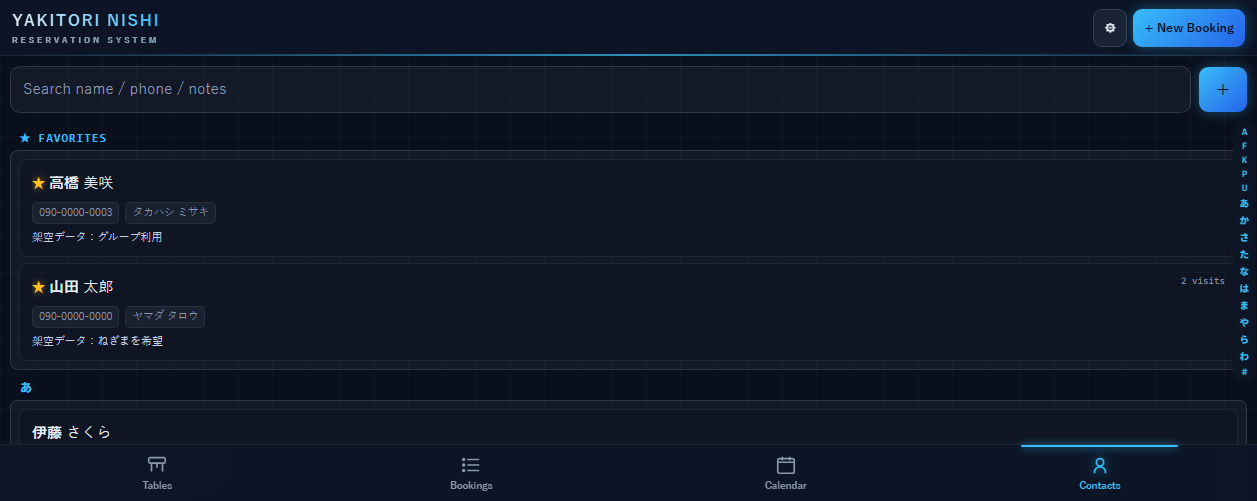
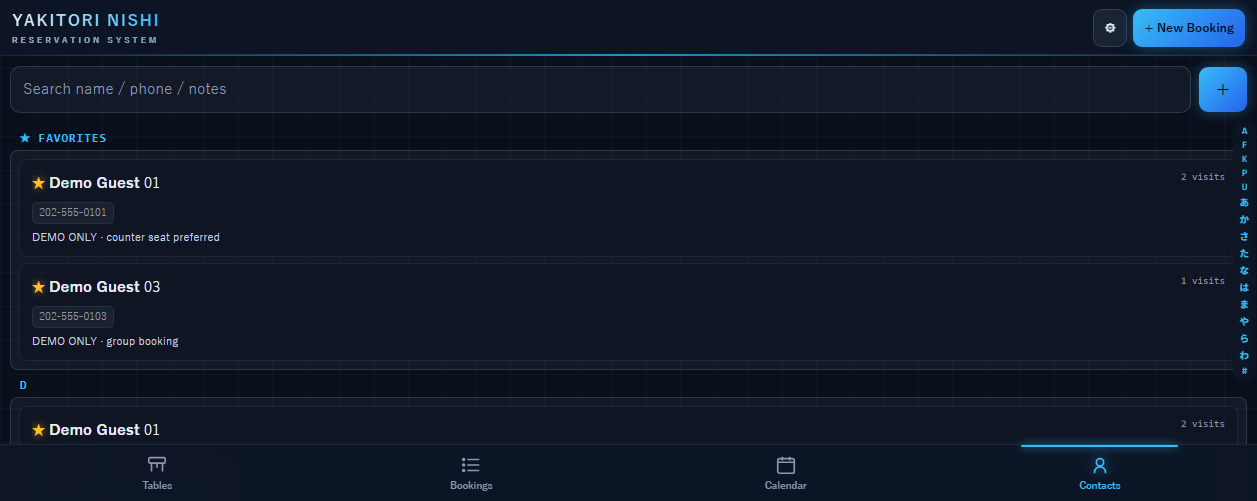
電話帳の画像を Demo Guest のデモデータで撮り直し

diff --git a/README.md b/README.md
@@ -33,7 +33,7 @@
 </tr>
 <tr>
 <td><img src="docs/screenshots/feature-visit-history.png" alt="Demo Guest 01の今回と過去の2回分の来店履歴が表示される"><br><b>来店履歴</b> — 今回と過去の来店をまとめて表示</td>
-<td><img src="docs/screenshots/feature-contacts.png" alt="お気に入りと五十音・アルファベット索引付きで架空の顧客を一覧表示する電話帳"><br><b>電話帳</b> — 名前・電話番号・メモで検索、五十音／A–Z索引付き</td>
+<td><img src="docs/screenshots/feature-contacts.png" alt="お気に入りのDemo Guest 01・03と索引を表示する電話帳"><br><b>電話帳</b> — 名前・電話番号・メモで検索、五十音／A–Z索引付き</td>
 </tr>
 <tr>
 <td><img src="docs/screenshots/feature-day-summary.jpg" alt="11月10日の集計パネルに予約9組・合計28名・Walk-in1組と予約一覧を表示"><br><b>日別集計</b> — 予約組数・総人数・Walk-inを自動で更新</td>
